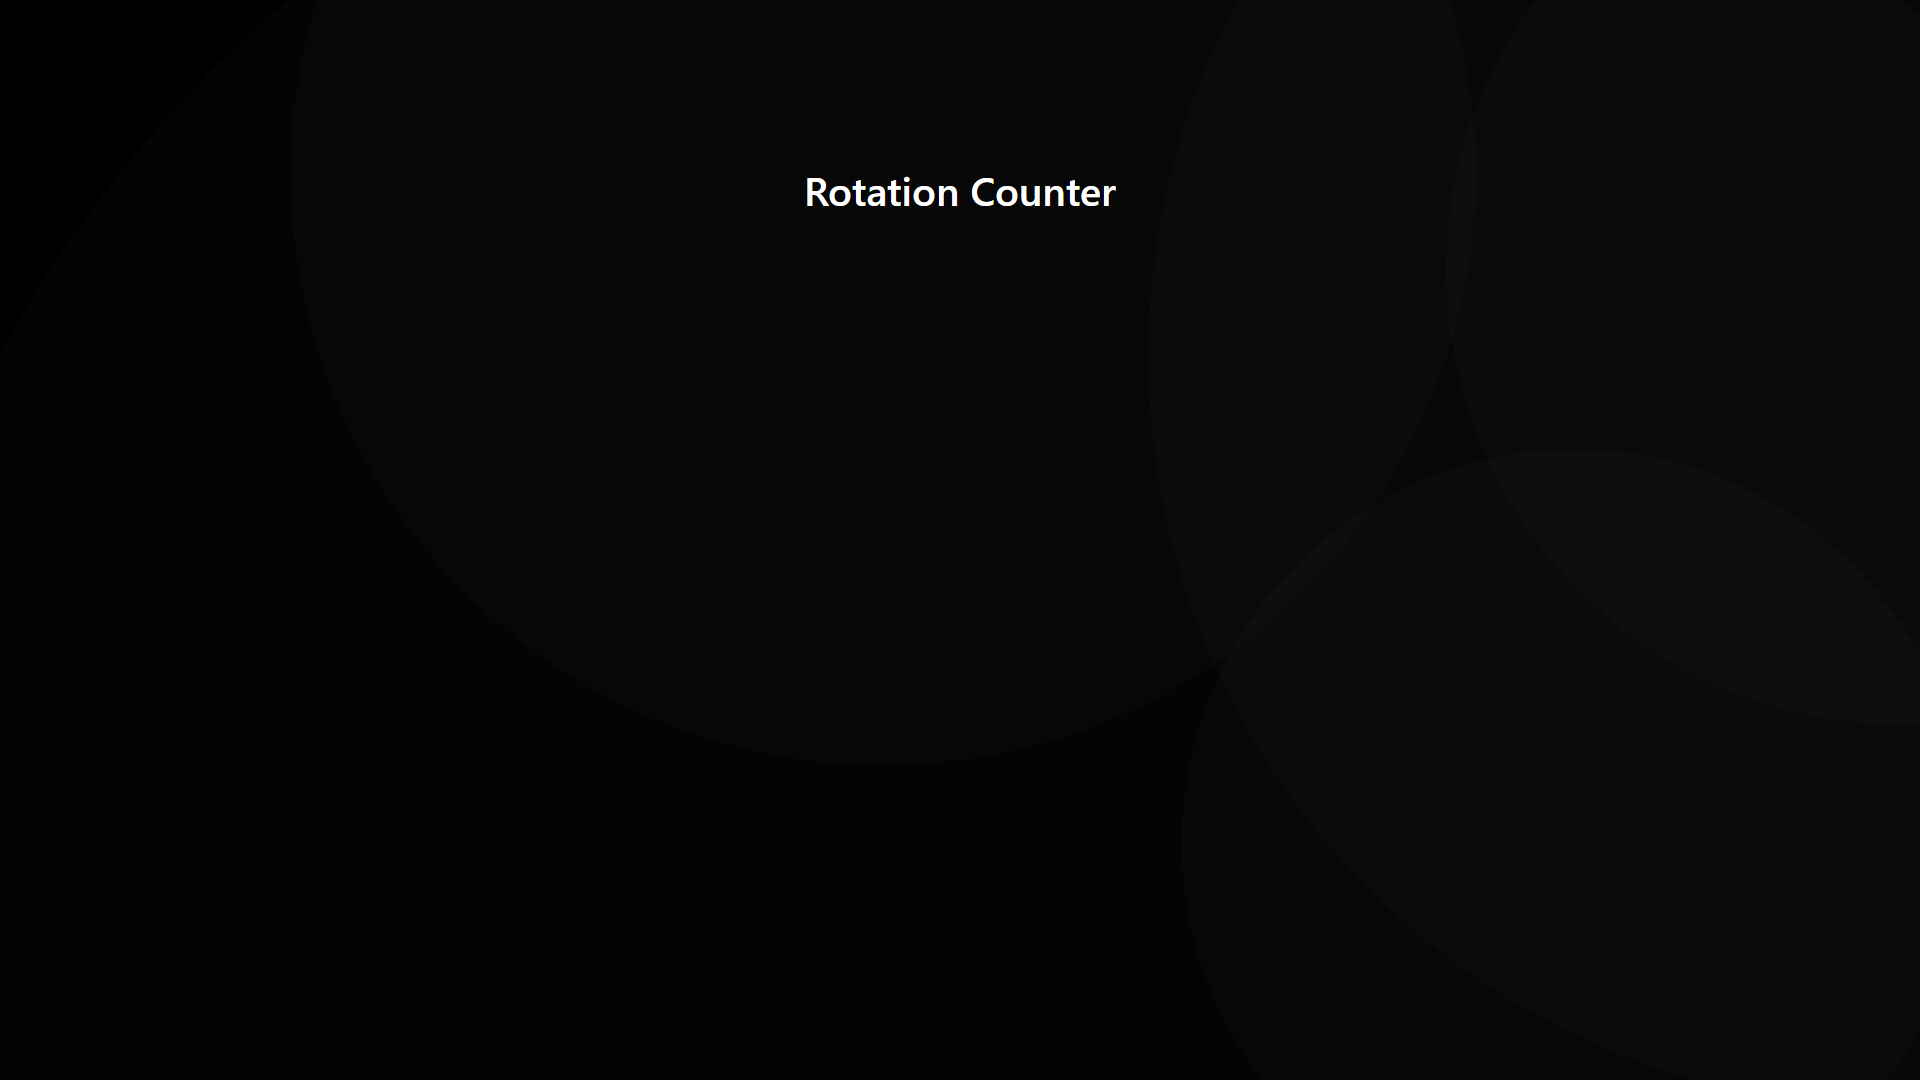
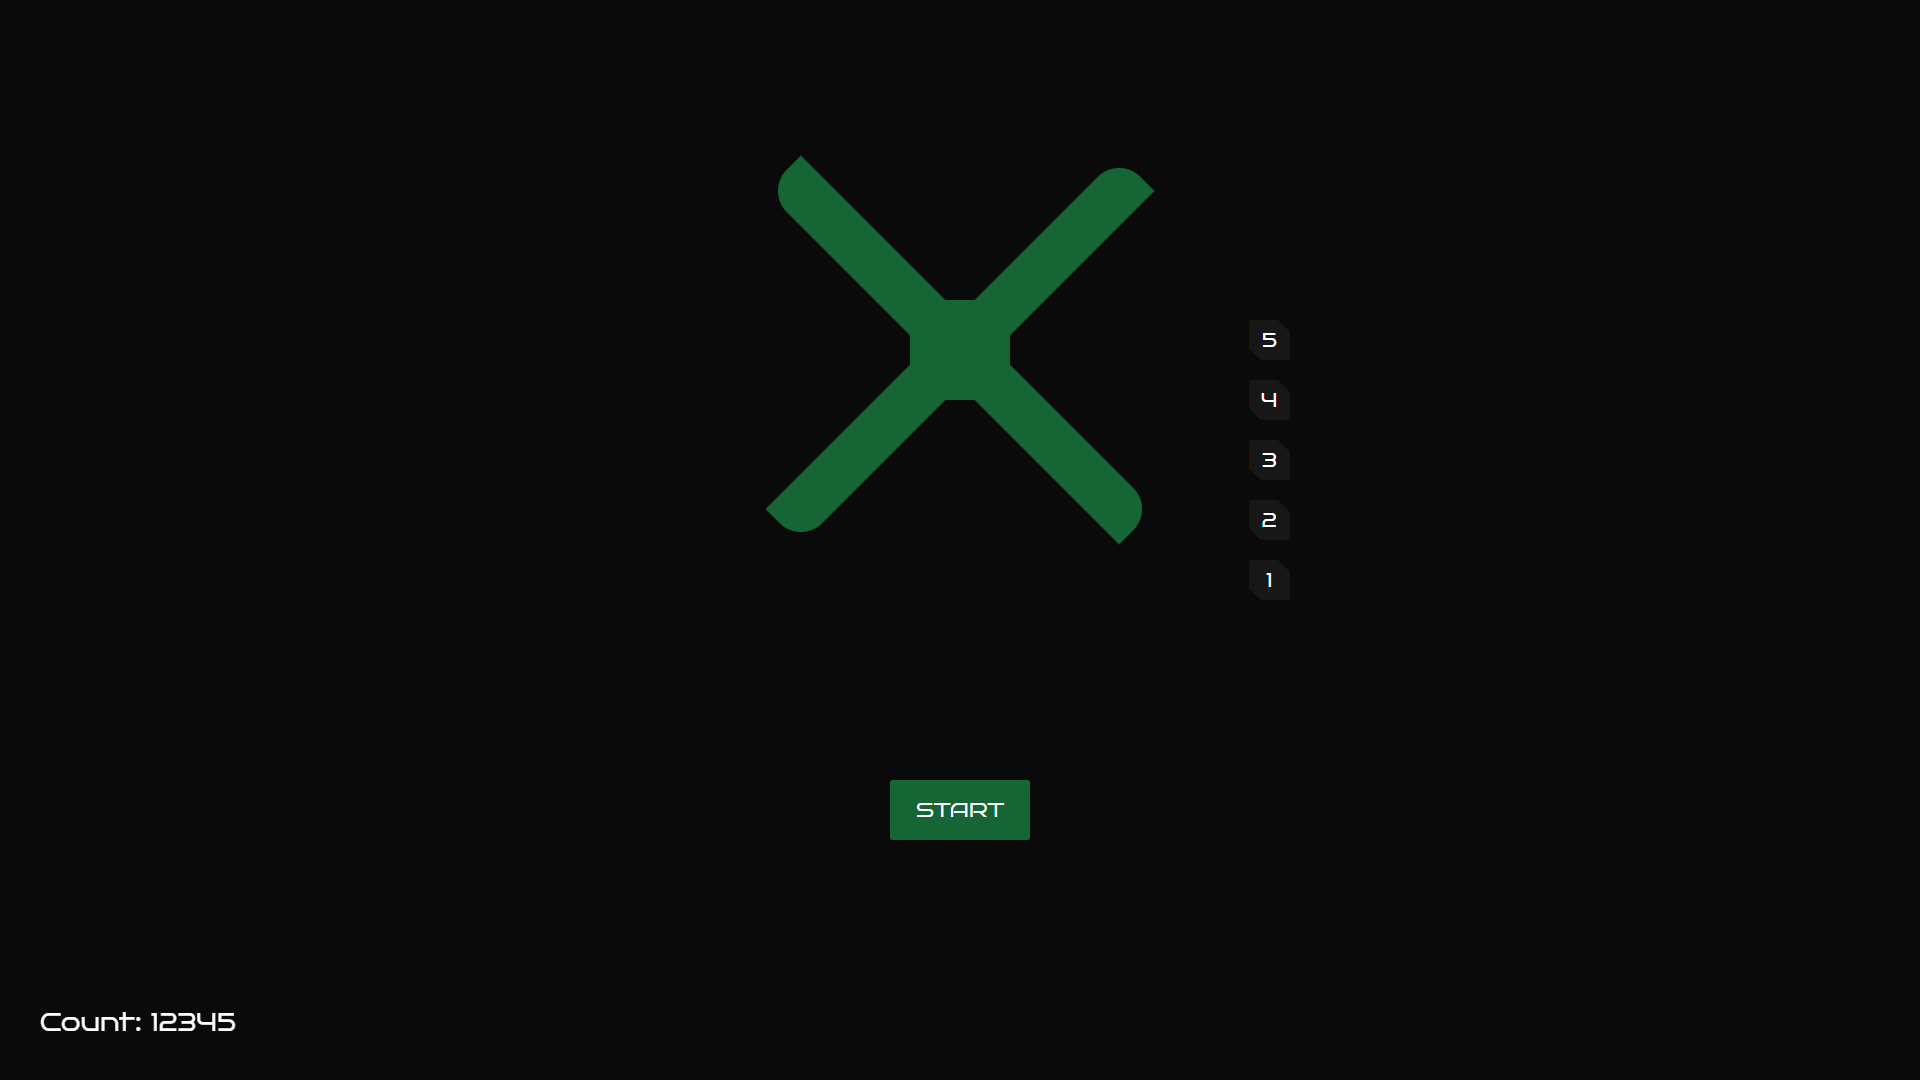
rotation counter project updated

diff --git a/src/pages/projects/RotationCounter.jsx b/src/pages/projects/RotationCounter.jsx
@@ -81,7 +81,7 @@ const RotationCounter = () => {
       </div>
       <button
         onClick={handleRotationStart}
-        className={`fixed bottom-24 left-[50%] w-28 translate-x-[-50%] rounded-sm ${start ? "bg-red-800" : "bg-green-800"} py-3 text-base font-medium uppercase text-white`}
+        className={`fixed bottom-40 left-[50%] w-28 translate-x-[-50%] rounded-sm ${start ? "bg-red-800" : "bg-green-800"} py-3 text-base font-medium uppercase text-white`}
       >
         {start ? "Stop" : "Start"}
       </button>
